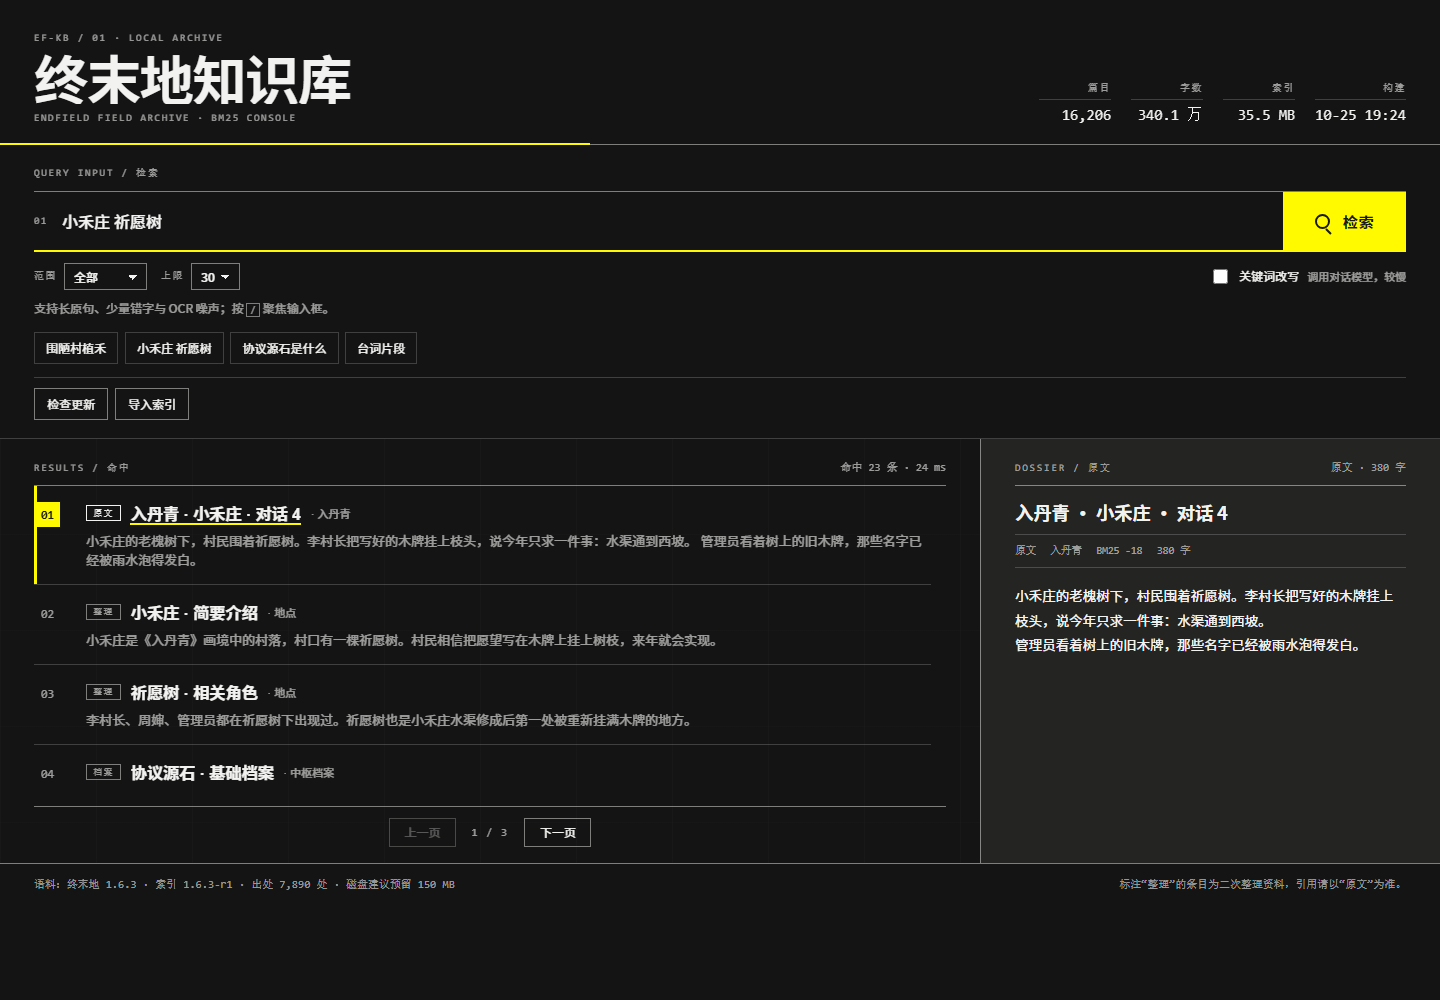
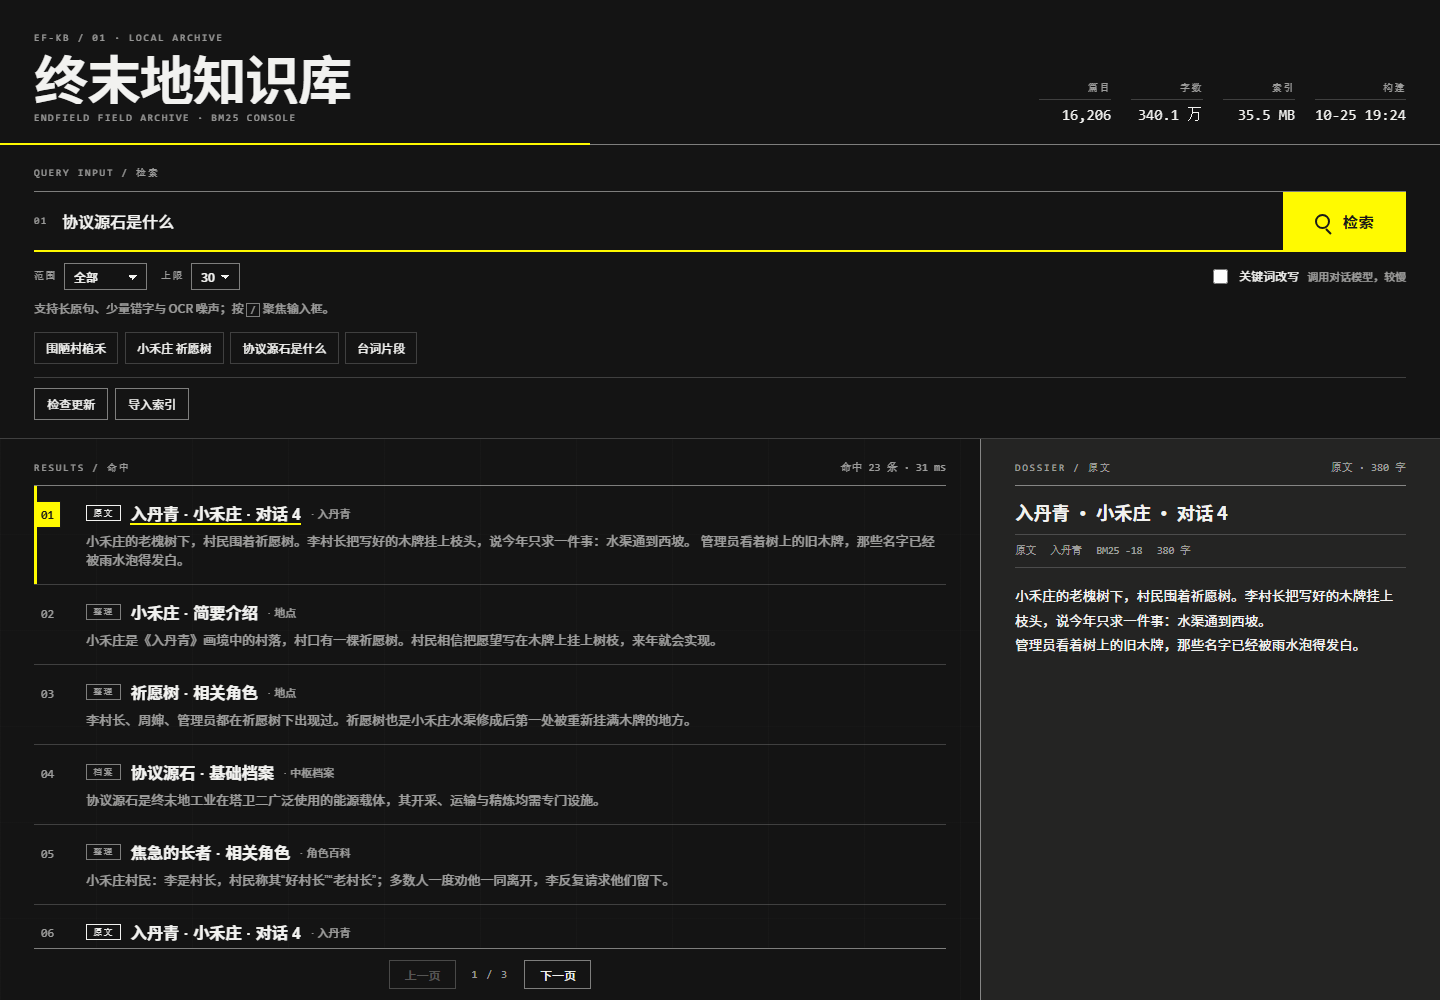
fix: freeze pager, let results scroll with page

diff --git a/views/kb-console/style.css b/views/kb-console/style.css
@@ -20,6 +20,7 @@
     var(--ark-font-cjk);
   --ark-font-mono: "IBM Plex Mono", "SFMono-Regular", Consolas, monospace;
   --ark-gutter: clamp(1rem, 2.4vw, 2.5rem);
+  --ark-detail-w: clamp(320px, 34vw, 460px);
   --ark-ease: cubic-bezier(0.22, 0.8, 0.2, 1);
   --ark-ease-out: cubic-bezier(0.16, 1, 0.3, 1);
 }
@@ -56,12 +57,11 @@ body {
 }
 
 .ark-shell {
-  block-size: 100svh;
-  min-block-size: 0;
-  overflow: hidden;
+  min-block-size: 100svh;
   display: grid;
-  grid-template-columns: minmax(0, 1fr) clamp(320px, 34vw, 460px);
+  grid-template-columns: minmax(0, 1fr) var(--ark-detail-w);
   grid-template-rows: auto auto minmax(0, 1fr) auto;
+  padding-block-end: 3.25rem;
   background: var(--ark-paper);
 }
 
@@ -417,7 +417,7 @@ body {
 .ark-stage {
   grid-column: 1 / -1;
   display: grid;
-  grid-template-columns: minmax(0, 1fr) clamp(320px, 34vw, 460px);
+  grid-template-columns: minmax(0, 1fr) var(--ark-detail-w);
   min-block-size: 0;
   background-image:
     linear-gradient(90deg, var(--ark-grid-major) 1px, transparent 1px),
@@ -430,16 +430,13 @@ body {
   min-block-size: 0;
   display: flex;
   flex-direction: column;
-  padding: 1.25rem var(--ark-gutter) 1rem;
+  padding: 1.25rem var(--ark-gutter) 2rem;
   position: relative;
 }
 
 .ark-list-wrap {
   flex: 1 1 auto;
   min-block-size: 0;
-  overflow-y: auto;
-  overscroll-behavior: contain;
-  scrollbar-gutter: stable;
 }
 
 .ark-section-head {
@@ -471,14 +468,18 @@ body {
 }
 
 .ark-pager {
-  flex: 0 0 auto;
+  position: fixed;
+  inset-block-end: 0;
+  inset-inline-start: var(--ark-gutter);
+  inset-inline-end: calc(var(--ark-detail-w) + var(--ark-gutter));
+  z-index: 5;
   display: flex;
   align-items: center;
   justify-content: center;
   gap: 1rem;
-  margin-block-start: 0.8rem;
-  padding-block-start: 0.7rem;
+  padding-block: 0.7rem;
   border-block-start: 1px solid var(--ark-rule-strong);
+  background: var(--ark-paper);
 }
 
 .ark-pager[hidden] {
@@ -832,21 +833,16 @@ body {
 
 @media (max-width: 860px), (orientation: portrait) {
   .ark-shell {
-    block-size: auto;
-    overflow: visible;
     grid-template-columns: minmax(0, 1fr);
   }
 
   .ark-list-wrap {
     overflow: visible;
-    padding-block-end: 3.5rem;
+    padding-block-end: 1rem;
   }
 
   .ark-pager {
-    position: sticky;
-    inset-block-end: 0;
-    z-index: 3;
-    background: var(--ark-paper);
+    inset-inline-end: var(--ark-gutter);
     box-shadow: 0 -10px 18px -14px color-mix(in srgb, var(--ark-ink) 45%, transparent);
   }
 

diff --git a/README.md b/README.md
@@ -143,9 +143,9 @@ zmd 帮助
 - **范围**：全部 / 剧情原文 / 中枢档案 / 整理资料 / 角色资料。切换即用当前查询重跑
 - **上限**：10 / 20 / 30 / 50，默认 30；实际返回仍受相对分数阈值约束
 
-结果按 **10 条一页** 分页，底部翻页条常驻在可视区下沿，显示「1 / 3」这样的页码。
+结果按 **10 条一页** 分页，翻页条固定在结果栏下沿，不随内容滚走，显示「1 / 3」这样的页码。
 
-布局会跟着窗口走：窗口变矮时自动收起副标题与提示、压缩头部，把高度让给结果区；窄屏下统计与页脚收起，结果随页面滚动、翻页条吸底，点开一条会自动滚到右侧正文（手机上即下方）。
+布局会跟着窗口走：窗口矮于 760px 时收起副标题与提示行，窄屏下收起统计与页脚。列表随页面滚动，点开一条会自动滚到右侧正文（手机上即下方）。
 
 范围只收窄候选集合，不改变排序；命中条数还会被相对分数阈值再砍一次，所以实际返回常少于所选条数。
 
